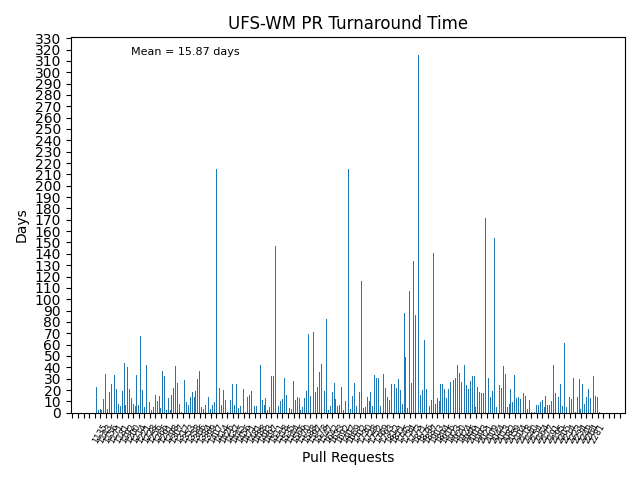
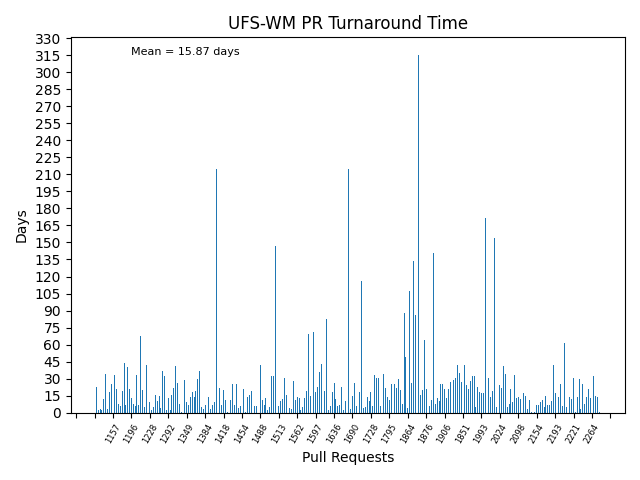
update ufs-wm png

Changed region(s): [[0.125, 0.875, 0.9375, 0.9375], [0.0312, 0.0938, 0.0938, 0.8438]]

diff --git a/script/plot_bar.py b/script/plot_bar.py
@@ -36,9 +36,9 @@ plt.text(20, y_.max(), f"Mean = {y_mean:.2f} days", fontsize=8)
 ax.set_xticks(x)
 # Set ticks labels for x-axis
 ax.set_xticklabels(pr, rotation=60, fontsize=6)
-tick_spacing = 3
+tick_spacing = 10
 ax.xaxis.set_major_locator(ticker.MultipleLocator(tick_spacing))
-ax.yaxis.set_major_locator(ticker.MultipleLocator(10))
+ax.yaxis.set_major_locator(ticker.MultipleLocator(15))
 # Show the plot
 # ax.invert_xaxis()
 plt.title(f"{app.upper()} PR Turnaround Time")
